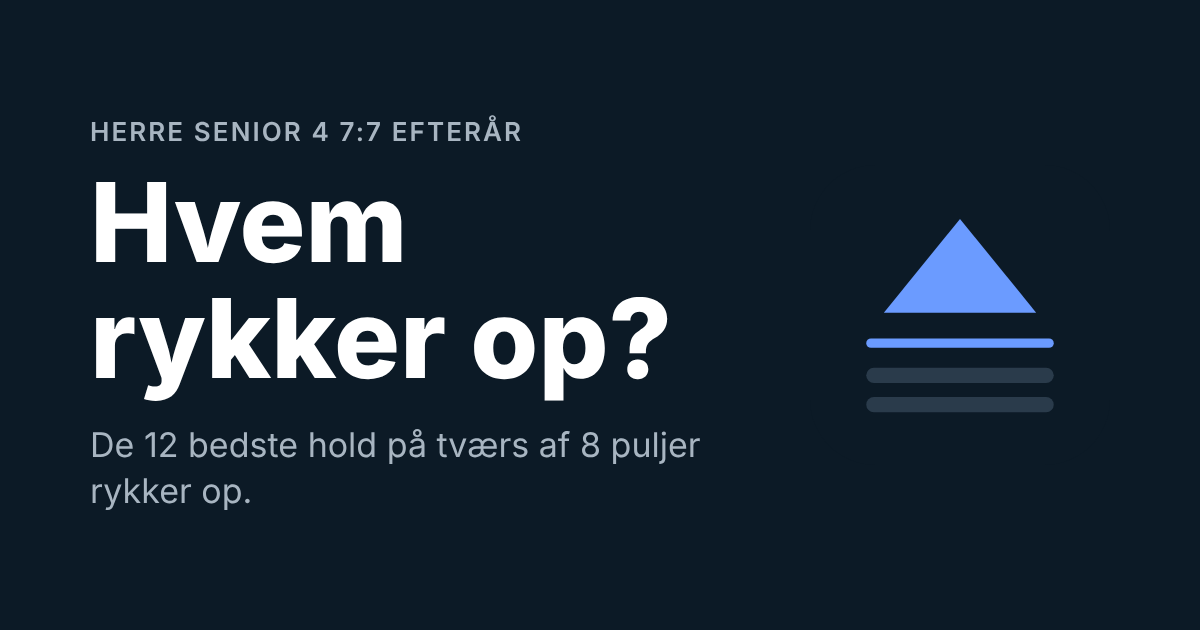
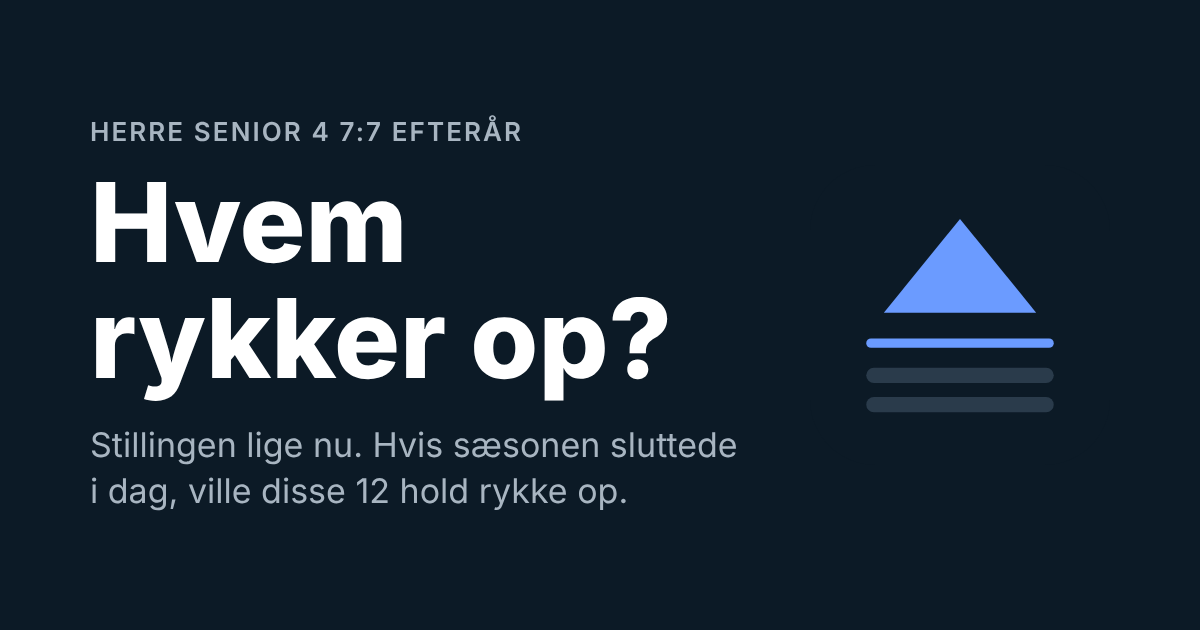
Move the daily-update line out of the box and update the share preview text and image

Changed region(s): [[0.0617, 0.6635, 0.6167, 0.8143]]

diff --git a/build.py b/build.py
@@ -23,7 +23,7 @@ MY_TEAM = "Union 9"  # marked with a dot in the tables
 SITE_URL = "https://clydefrogx.github.io/oprykning/"  # share previews need the full address
 ASSETS = pathlib.Path("assets")  # icons, share image and manifest, copied into site/
 TITLE = "Hvem rykker op? - Herre Senior 4 7:7"
-DESC = f"De {PROMOTE} bedste hold på tværs af {len(POOLS)} puljer rykker op i Herre Senior 4 7:7 Efterår."
+DESC = f"Stillingen lige nu i Herre Senior 4 7:7 Efterår. Hvis sæsonen sluttede i dag, ville disse {PROMOTE} hold rykke op. Opdateres hver dag kl. 03:00."
 
 
 def read_pool(url):
@@ -108,9 +108,8 @@ body{margin:0;background:radial-gradient(70rem 26rem at 50% -8rem,rgba(37,99,214
 h1{font-size:2.5rem;line-height:1.05;font-weight:800;letter-spacing:-.02em;margin:0}
 .sub{margin:.75rem 0 0;color:var(--mute);font-size:1.05rem;max-width:44ch}
 .chips{display:flex;flex-wrap:wrap;gap:.5rem;margin:1rem 0 0;padding:0;list-style:none}
-.chips li{padding:.4rem .9rem;border-radius:1rem;background:var(--panel);border:1px solid var(--bd);font-size:.88rem;color:var(--mute)}
+.chips li{padding:.35rem .8rem;border-radius:2rem;background:var(--panel);border:1px solid var(--bd);font-size:.88rem;color:var(--mute)}
 .chips b{color:var(--fg)}
-.chips span{display:block}
 h2{display:flex;align-items:center;gap:.6rem;margin:1.75rem .25rem .2rem;font-size:1.2rem;font-weight:800}
 h2 span{padding:.15rem .65rem;border-radius:2rem;background:var(--bupd);font-size:.78rem;font-weight:700;letter-spacing:.04em}
 .note{margin:.2rem .25rem .8rem;font-size:.92rem;color:var(--mute);max-width:56ch}
@@ -214,8 +213,8 @@ def render(teams):
 <meta name="twitter:card" content="summary_large_image">
 <style>{CSS}</style></head><body><div class="in">
 <div class="hero"><p class="kick">Herre Senior 4 7:7 Efterår</p><h1>Hvem rykker op?</h1>
-<p class="sub">Stillingen lige nu. Hvis sæsonen sluttede i dag, ville disse {PROMOTE} hold rykke op.</p>
-<ul class="chips"><li><span>Opdateret <b>{now}</b></span><span>Opdateres hver dag kl. 03:00</span></li></ul></div>
+<p class="sub">Stillingen lige nu. Hvis sæsonen sluttede i dag, ville disse {PROMOTE} hold rykke op.<br>Opdateres hver dag kl. 03:00</p>
+<ul class="chips"><li>Opdateret <b>{now}</b></li></ul></div>
 {body}
 <div class="legend">
 <p><b>K</b> kampe</p>
